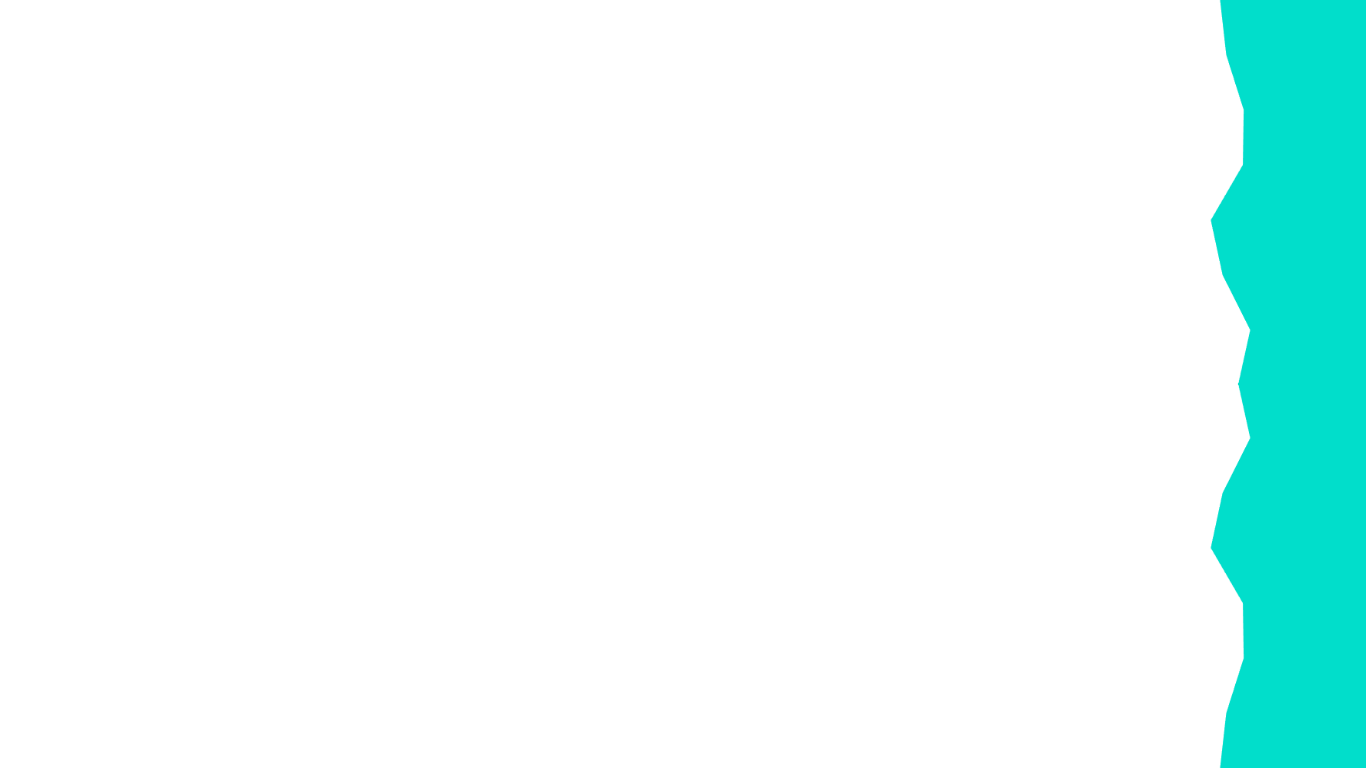
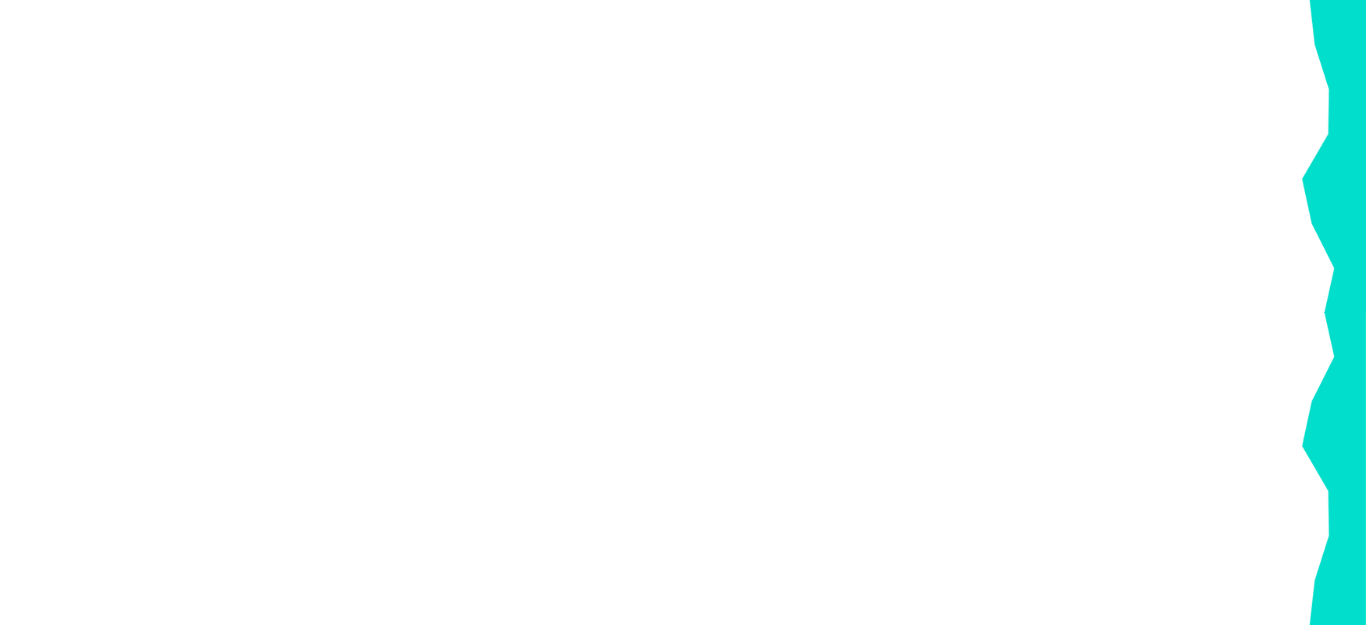
Add files via upload

Changed region(s): [[0.8609, 0.0, 0.9839, 1.0]]

diff --git a/main.css b/main.css
@@ -60,8 +60,8 @@ main {
     background-repeat: no-repeat;
     /* background-size: 100vw 100vh; */
     background-position: right;
+    
     height: 100vh;
-    z-index: -1;
 }
 
 .navmain {
@@ -110,6 +110,7 @@ main {
     background: var(--text-color);
     position: fixed;
     top: 100;
+    margin-top: 33px;
     width: 300px;
     height: 150%;
     color: var(--bg-color);
@@ -134,8 +135,9 @@ main {
 }
 
 .nav-side.navside-active {
-    right: 0;
+    right: -18px;
     position: absolute;
+    z-index: 3;
 }
 
 .bttNav-side {
@@ -153,7 +155,7 @@ main {
 
 #bttNav-side1.bttNav-size-act,
 #bttNav-side2.bttNav-size-act {
-    z-index: 1;
+    z-index: 4;
     right: 0;
     position: absolute;
     filter: brightness(100);
@@ -167,11 +169,11 @@ main {
 .fixar {
     position: fixed;
     z-index: 99;
-    top: 2%;
-    height: 50px;
-    right: -1%;
+    top: 1%;
+    height: 70px;
+    right: 0;
     transition: top 0.3s ease-in-out;
-    filter: drop-shadow(5px 3px 2.5px rgba(0, 0, 0, 0.24));
+    filter: drop-shadow(0px 0px 5px var(--bg-color));
 }
 
 .teste {
@@ -187,14 +189,16 @@ main {
 #bttDarkMode-side {
     visibility: hidden;
     transition: 0.7s;
+    margin-left: 120px;
+    margin-top: 50%;
     position: relative;
 }
 
 #bttDarkMode-side.bttDarkMode-side-act {
-    position: relative;
-    right: 130px;
-    top: 17rem;
-    float: right;
+    position: sticky;
+    /* right: 130px;
+    float: right; */
+    top: 20rem;
     z-index: 2;
     filter: brightness(100);
     height: 50px;
@@ -305,7 +309,17 @@ main {
     position: relative;
     text-align: center;
     justify-content: center;
-    gap: 1rem;
+    gap: 2.5rem;
+}
+
+.product-box {
+    margin-top: 10px;
+    transition: all 0.2s linear;
+}
+.product-box:hover {
+    padding-top: 10px;
+    border: 0.5px solid black;
+    background: url(./src/img/bg-prod.png);
 }
 
 .imgsprod {

diff --git a/script.js b/script.js
@@ -40,9 +40,6 @@ function abrirNavSide() {
         bttNav[1].classList.toggle('bttNav-size-act');
         navSide.classList.toggle('navside-active')
         bttDarkModeSide.classList.toggle("bttDarkMode-side-act")
-        for (i = 0, letarr = arrImgZI.length; i < letarr; i++) {
-            arrImgZI[i].style.zIndex = '-1'
-        }
     }
 }
 
@@ -56,16 +53,11 @@ $(function () {
     var nav = $('.bttNav-side');
     var menuLinkSide = Array.from(document.getElementsByClassName('ulmenu'))
     $(window).scroll(function () {
-        if ($(this).scrollTop() > 600 && $(this).scrollTop() < 650) {
+        if ($(this).scrollTop() > 600) {
             nav.addClass("fixar");
-            bttDarkModeSide.style.top = '400px'
-            bttDarkModeSide.style.transition = '0.2s' 
-        } else if ($(this).scrollTop() >= 650) {
-            bttDarkModeSide.style.top = '700px'
         }
         else {
             nav.removeClass("fixar");
-            menuLinkSide.removeClass("teste")
         }
     });
 });

diff --git a/index.html b/index.html
@@ -64,8 +64,10 @@
                 <li class="menulink-side"><a href="#">About</a></li>
                 <li class="menulink-side"><a href="#">Contact</a></li>
             </ul>
+            <img src="./src/img/darkmode-icon.png" alt="Icone para modo escuro" class="navimgs" id="bttDarkMode-side">
+
         </nav>
-        <img src="./src/img/darkmode-icon.png" alt="Icone para modo escuro" class="navimgs" id="bttDarkMode-side">
+
     </section>
 
     <section class="secShopProd">
